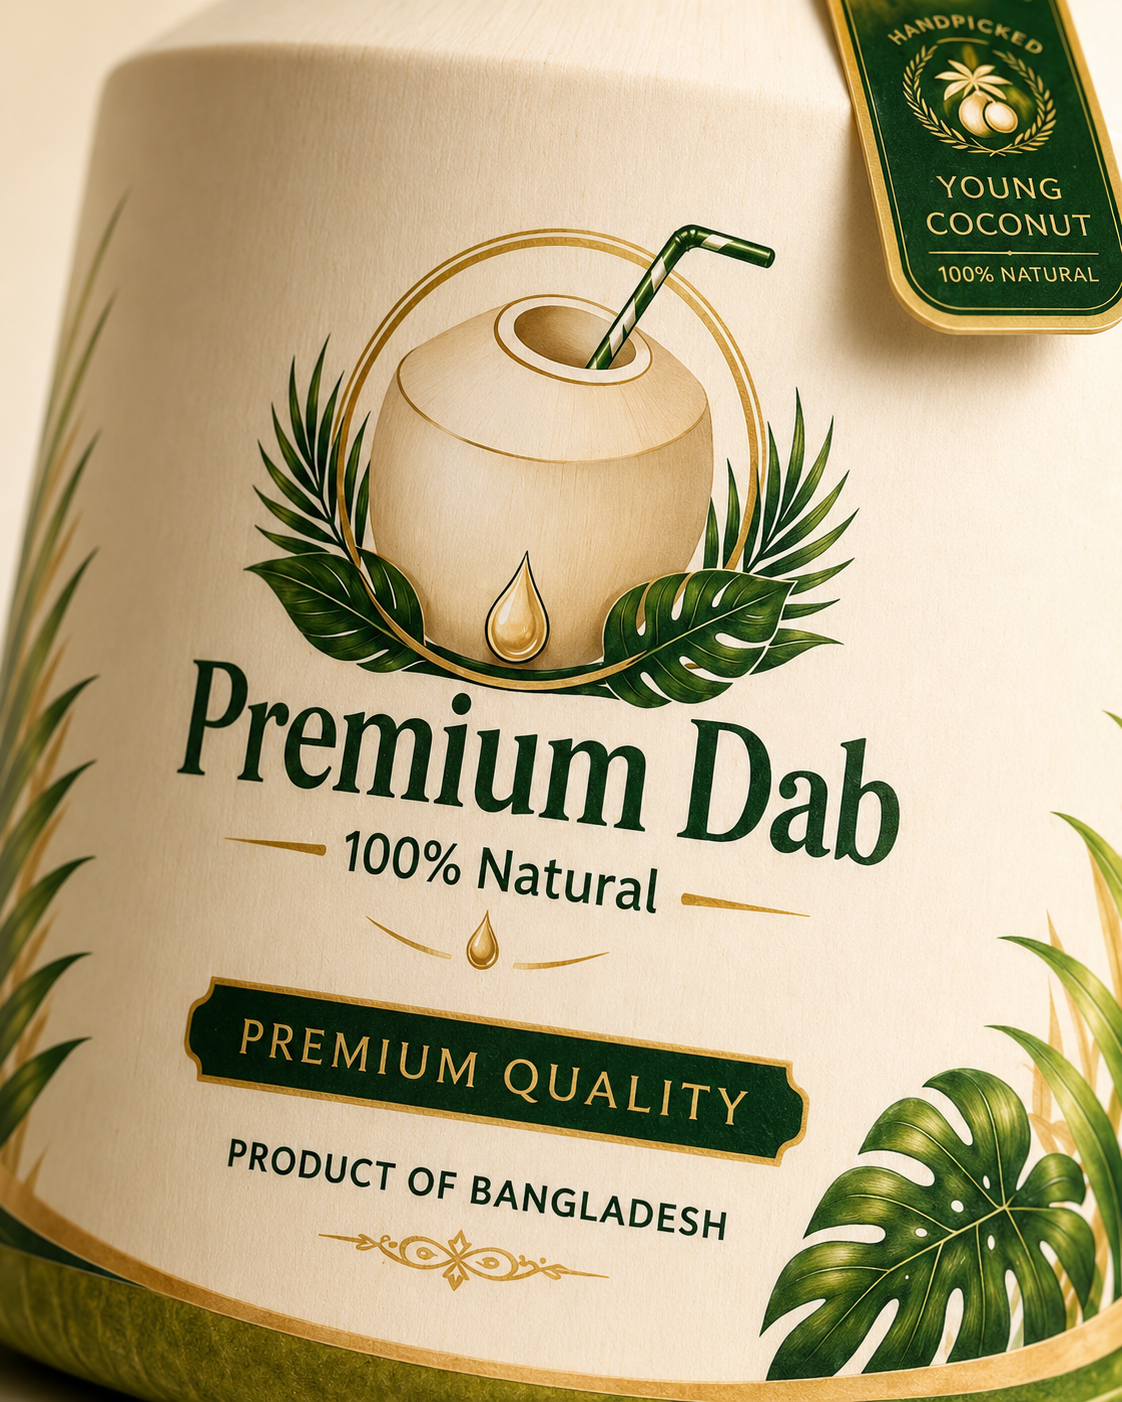
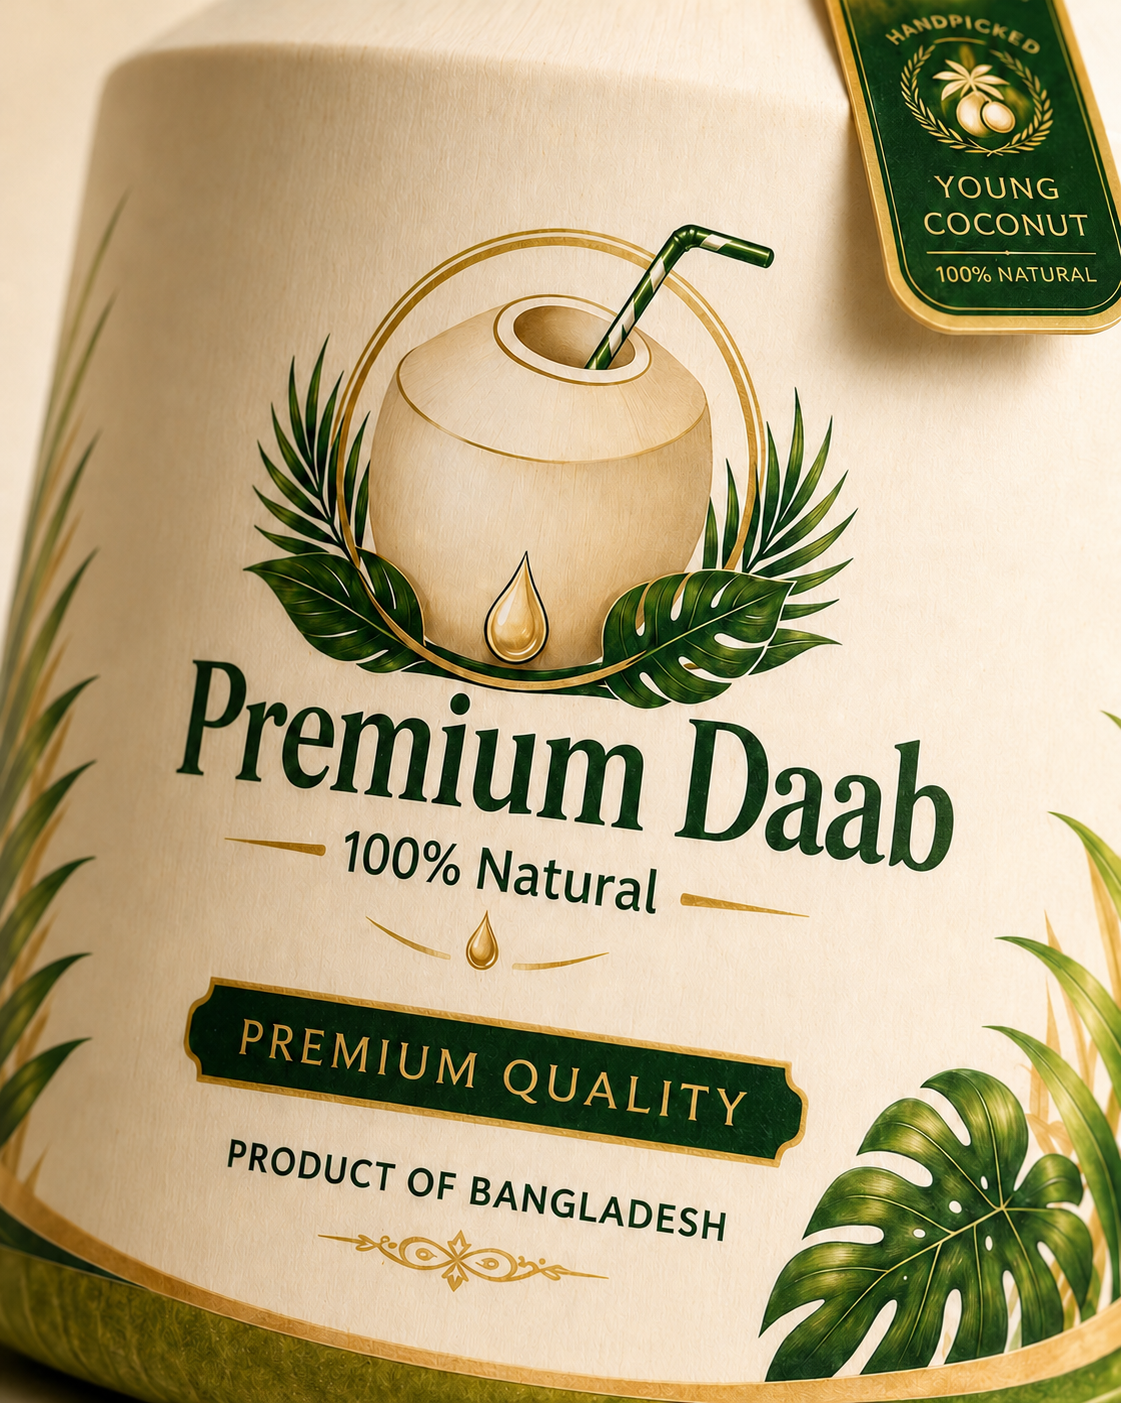
chore: apply corrected WebP image assets, replace top straw image with main image, and optimize homepage lifestyle images to WebP

diff --git a/src/app/(customer)/page.tsx b/src/app/(customer)/page.tsx
@@ -409,7 +409,7 @@ export default function Home() {
             <div className="group rounded-3xl border border-pd-border/70 overflow-hidden bg-white shadow-sm transition-all duration-300 hover:-translate-y-1.5 hover:shadow-lg text-left flex flex-col">
               <div className="relative w-full h-80 overflow-hidden bg-[#FAF5EB]">
                 <Image
-                  src="/assets/premium-daab/moment-morning.png"
+                  src="/assets/premium-daab/moment-morning.webp"
                   alt="Morning Refreshment"
                   fill
                   className="object-cover transition-transform duration-500 group-hover:scale-103"
@@ -428,7 +428,7 @@ export default function Home() {
             <div className="group rounded-3xl border border-pd-border/70 overflow-hidden bg-white shadow-sm transition-all duration-300 hover:-translate-y-1.5 hover:shadow-lg text-left flex flex-col">
               <div className="relative w-full h-80 overflow-hidden bg-[#FAF5EB]">
                 <Image
-                  src="/assets/premium-daab/moment-office.png"
+                  src="/assets/premium-daab/moment-office.webp"
                   alt="Office Break"
                   fill
                   className="object-cover transition-transform duration-500 group-hover:scale-103"
@@ -447,7 +447,7 @@ export default function Home() {
             <div className="group rounded-3xl border border-pd-border/70 overflow-hidden bg-white shadow-sm transition-all duration-300 hover:-translate-y-1.5 hover:shadow-lg text-left flex flex-col">
               <div className="relative w-full h-80 overflow-hidden bg-[#FAF5EB]">
                 <Image
-                  src="/assets/premium-daab/moment-workout.png"
+                  src="/assets/premium-daab/moment-workout.webp"
                   alt="Post-Workout Hydration"
                   fill
                   className="object-cover transition-transform duration-500 group-hover:scale-103"
@@ -466,7 +466,7 @@ export default function Home() {
             <div className="group rounded-3xl border border-pd-border/70 overflow-hidden bg-white shadow-sm transition-all duration-300 hover:-translate-y-1.5 hover:shadow-lg text-left flex flex-col">
               <div className="relative w-full h-80 overflow-hidden bg-[#FAF5EB]">
                 <Image
-                  src="/assets/premium-daab/moment-guest.png"
+                  src="/assets/premium-daab/moment-guest.webp"
                   alt="Guest Serving"
                   fill
                   className="object-cover transition-transform duration-500 group-hover:scale-103"

diff --git a/src/app/(customer)/product/ProductClient.tsx b/src/app/(customer)/product/ProductClient.tsx
@@ -23,9 +23,9 @@ export default function ProductDetailPage() {
       label: "Right Angle",
     },
     {
-      src: "/assets/premium-daab/product-top-straw.webp",
-      alt: "Premium Daab Top Straw Insertion",
-      label: "Straw Entry",
+      src: "/assets/premium-daab/product-main.webp",
+      alt: "Premium Daab Table View",
+      label: "Table View",
     },
     {
       src: "/assets/premium-daab/product-label-closeup.webp",
@@ -257,7 +257,7 @@ export default function ProductDetailPage() {
             <div className="flex flex-col gap-4 text-left p-6 rounded-2xl hover:bg-pd-cream-50/50 transition">
               <div className="relative w-full aspect-[4/3] rounded-xl overflow-hidden bg-pd-cream-100 border border-pd-border/40 mb-2">
                 <Image
-                  src="/assets/premium-daab/product-top-straw.webp"
+                  src="/assets/premium-daab/product-main.webp"
                   alt="Hygienic straw slot"
                   fill
                   className="object-contain p-4"